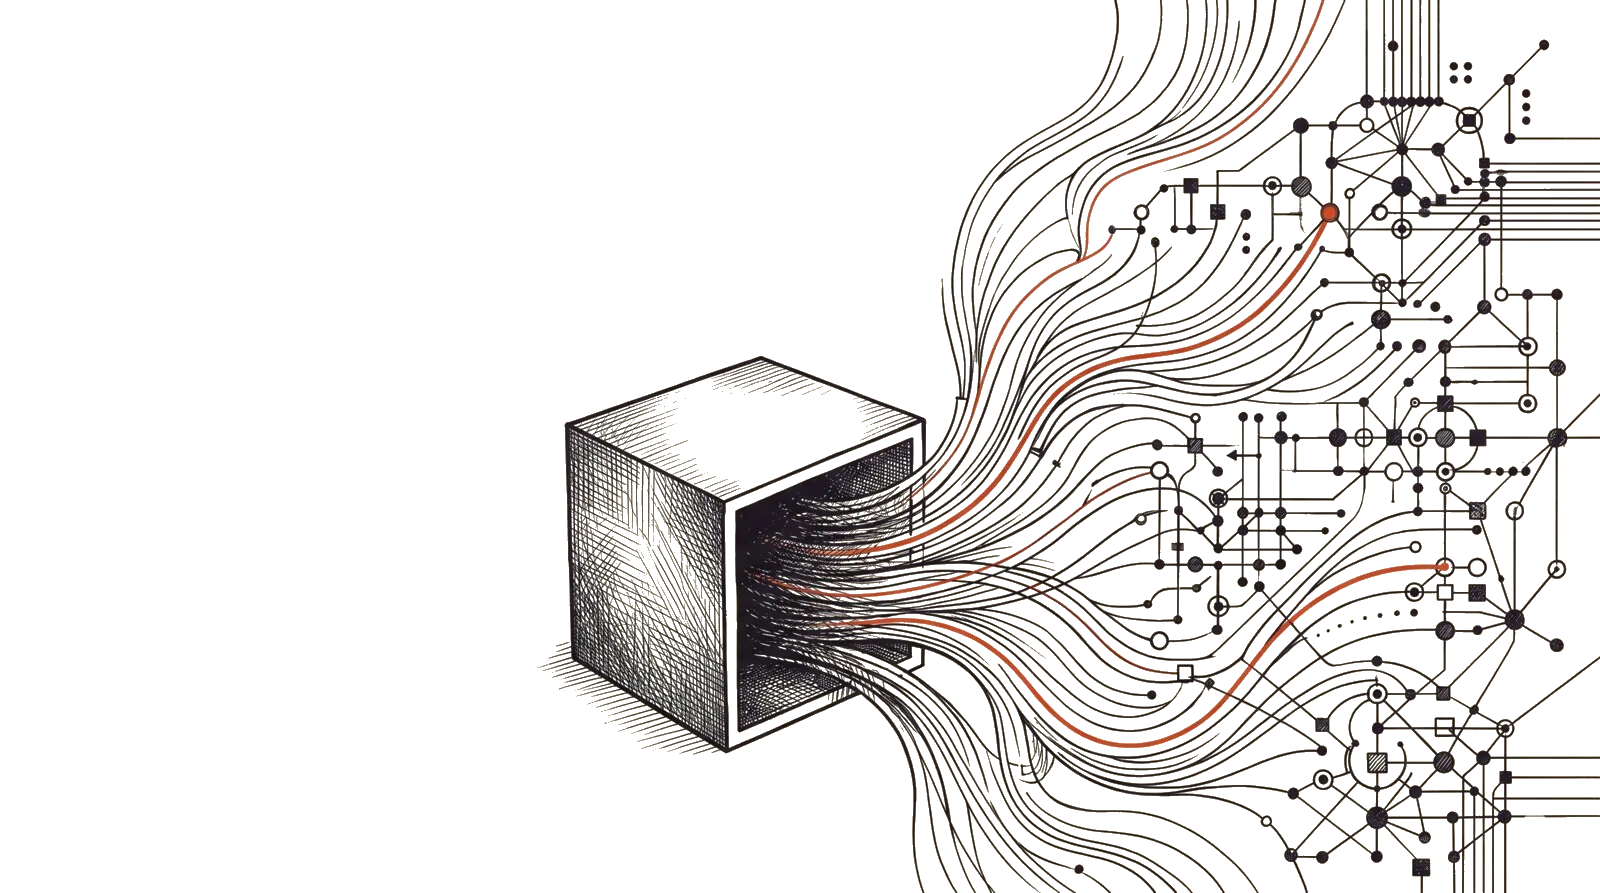
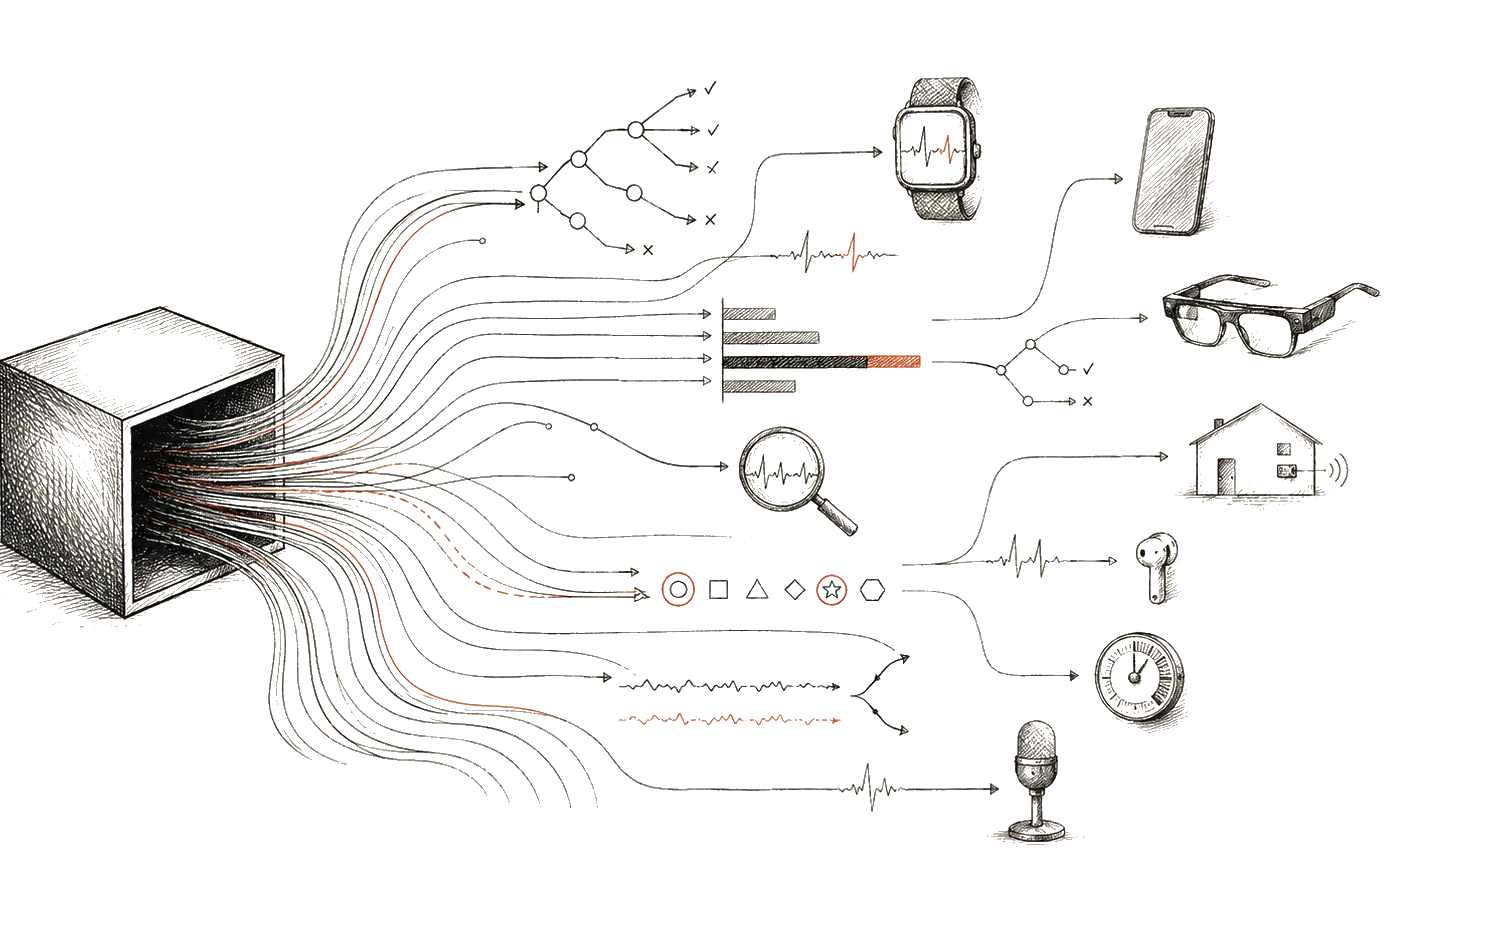
feat: replace hero illustration with new XAI-specific composition
The new hero adds explicit explainability motifs the previous
composition lacked: a small decision tree, a SHAP-style bar chart
(one bar in vermilion), a magnifying glass over a signal trace,
counterfactual / decision-symbol marks, and pulse traces alongside
the device icons (smartwatch, smartphone, glasses, smart home,
microphone).

Pipeline applied to the source PNG (2.1MB, 1690x931):
- crop 100px from each side to 1490x931, removing the empty parchment
  strips on the left and right edges,
- chromakey the parchment to transparent (16% fuzz on the sampled
  background srgb(248,243,232), with a smooth disk morphology pass
  on the alpha channel),
- export as WebP quality 82, method 6 -> 120KB (down from 2.1MB).

The hero <img> already points to assets/img/hero.webp, so no markup
change is needed. Drops the source PNG — only the WebP ships.

diff --git a/css/styles.css b/css/styles.css
@@ -11026,6 +11026,7 @@ header.masthead .masthead-heading {
   position: relative;
   display: block;
   margin: 0 auto;
+  width: 300px;
 }
 #portfolio .portfolio-item .portfolio-link .portfolio-hover {
   display: flex;
@@ -11348,8 +11349,8 @@ section#contact form#contactForm :-ms-input-placeholder {
 
 .speaker-img-crop {
   width: 100%;
-  max-width: 500px;
-  height: 500px;
+  max-width: 300px;
+  height: 300px;
   object-fit: cover;
   object-position: center;
   border-radius: 12px; /* optional, for rounded corners */

diff --git a/index.html b/index.html
@@ -556,7 +556,7 @@
             </div>
           </div>
           <div class="hero-figure">
-            <img src="assets/img/hero.webp" alt="A line-drawn box opens; its internal signals flow outward and resolve into a structured explanation graph." width="1600" height="893" />
+            <img src="assets/img/hero.png" alt="A line-drawn box opens; its internal signals flow outward and resolve into a structured explanation graph." width="1600" height="893" />
           </div>
         </div>
       </div>